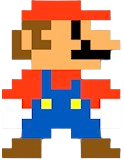
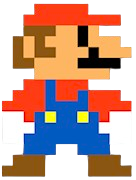
adding stuffs

Changed region(s): [[0.0, 0.0, 0.9919, 1.0]]

diff --git a/index.js b/index.js
@@ -191,22 +191,22 @@ function restartGame() {
 
 function moveup() {
   myGamePiece.speedY -= 3;
-  myGamePiece.image.src = "mario-moving.png";
+  myGamePiece.image.src = "mario-moving-up.png";
 }
 
 function movedown() {
   myGamePiece.speedY += 3;
-  myGamePiece.image.src = "mario-moving.png";
+  myGamePiece.image.src = "mario-moving-down.png";
 }
 
 function moveleft() {
   myGamePiece.speedX -= 3;
-  myGamePiece.image.src = "mario-moving.png";
+  myGamePiece.image.src = "mario-moving-left.png";
 }
 
 function moveright() {
   myGamePiece.speedX += 3;
-  myGamePiece.image.src = "mario-moving.png";
+  myGamePiece.image.src = "mario-moving-right.png";
 }
 
 function clearmove() {
